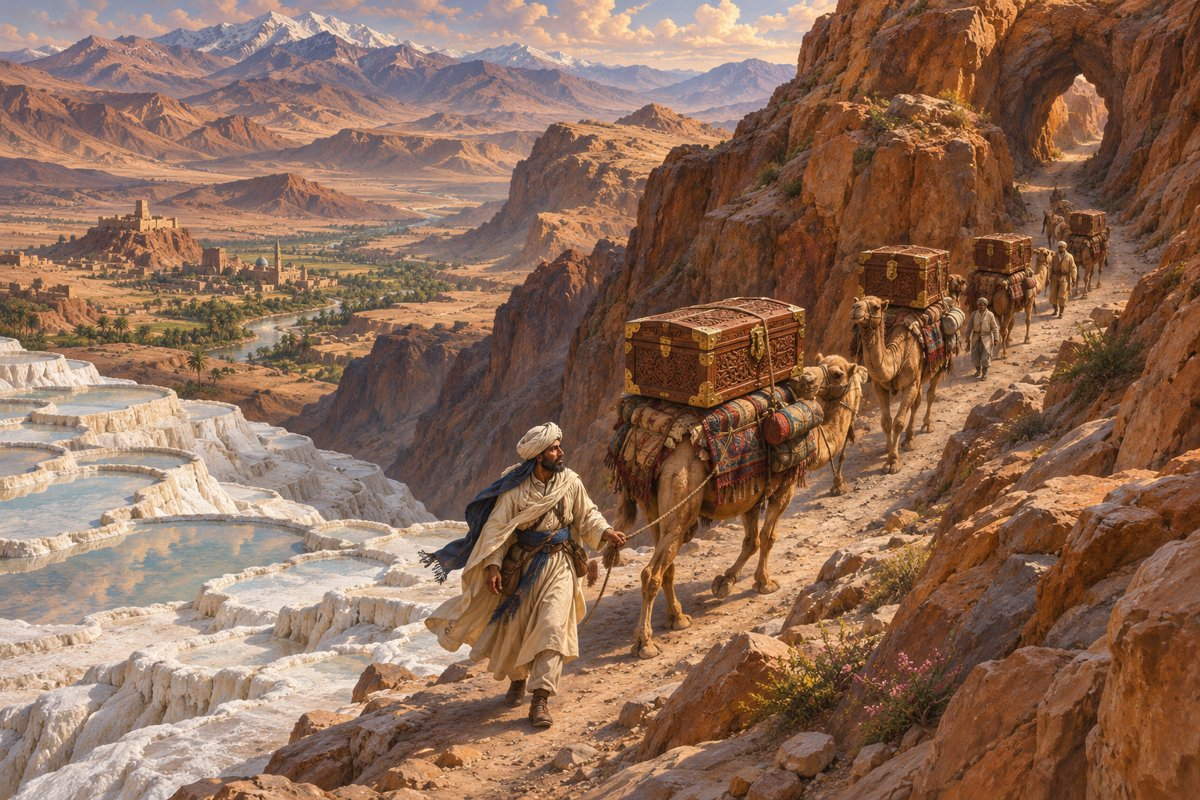
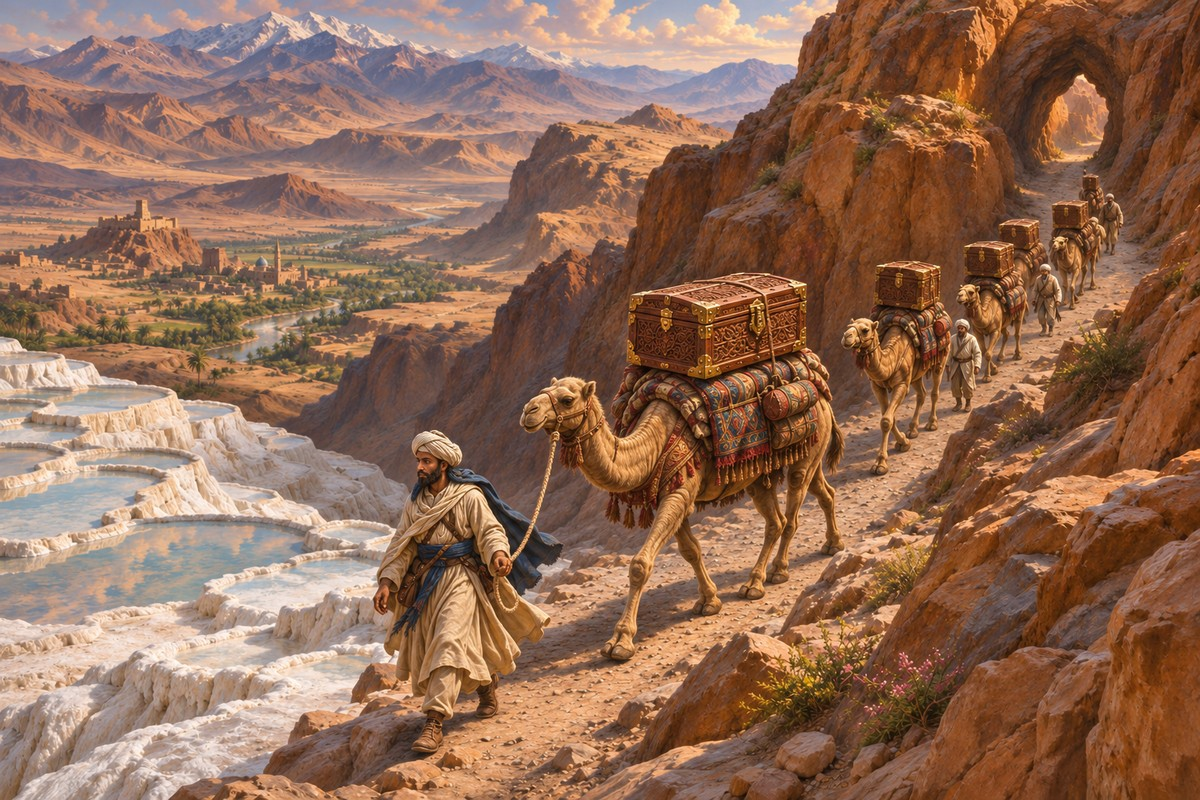
art: correct caravan travel direction in Saffronstreet story

diff --git a/PENDING_UPDATE.md b/PENDING_UPDATE.md
@@ -45,3 +45,7 @@ Die Tabelle hält belegte Restpunkte fest; sie beauftragt keine neue Spielfunkti
 ## Gesammelt: Ertragskarte ohne Lauftext
 
 In der Botenstation entfällt der sichtbare Text „Verteilung läuft“ einschließlich seiner reservierten Zeile. Die Zeitleiste bleibt erhalten; die frei werdende Fläche kommt dem Hintergrundbild zugute. Abweichende Statushinweise (volle Kasse, fehlende Ware, wartender Einkauf), Zugänglichkeit, Berechnung und Abholen bleiben erhalten. Gezielter Quelldiff geprüft; noch nicht veröffentlicht.
+
+## Gesammelt: Safranstraßen-Karawane korrigiert
+
+Das dritte Geschichtsbild (40–59 %) ist ersetzt: Der führende Kamelkörper samt Kopf und die folgende Karawane bewegen sich eindeutig in derselben Richtung wie der Führer. Landschaft, Licht und charakteristische Ladung bleiben erhalten. Einzelmotiv mit eingebauter Bildbearbeitung korrigiert, visuell geprüft, JPEG 1200 × 800 vollständig dekodiert und Upload-Blobintegrität geprüft. Noch nicht veröffentlicht.
